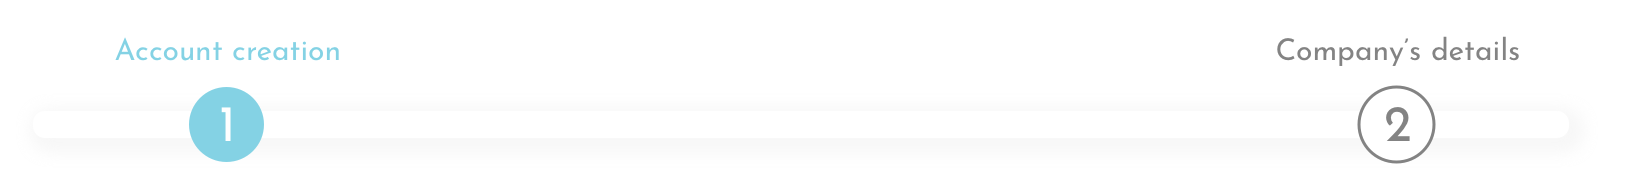
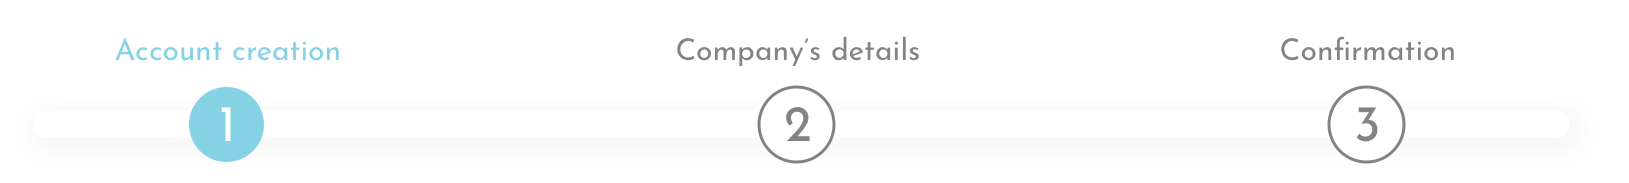
locales show

diff --git a/app/assets/stylesheets/pages/_home.scss b/app/assets/stylesheets/pages/_home.scss
@@ -130,7 +130,7 @@ body {
 }
 
 .logo-partner {
-  width: 100px;
+  width: 130px;
   margin: 10px 30px;
   opacity: 0.7;
   &:hover {
@@ -157,10 +157,8 @@ body {
 }
 
 
-
 @media only screen and (min-width: 1200px) {
   .box {
     max-width: 20vw;
   }
 }
-

diff --git a/app/assets/stylesheets/components/_navbar.scss b/app/assets/stylesheets/components/_navbar.scss
@@ -3,6 +3,15 @@
   position: fixed;
   width: 100%;
   height: 70px;
+  display: flex;
+  justify-content: space-between;
+  a {
+    color: $gray;
+    margin: 0px 10px;
+    &:hover {
+      text-decoration: none;
+    }
+  }
 }
 
 .logo {

diff --git a/db/schema.rb b/db/schema.rb
@@ -10,7 +10,7 @@
 #
 # It's strongly recommended that you check this file into your version control system.
 
-ActiveRecord::Schema.define(version: 2020_02_10_133554) do
+ActiveRecord::Schema.define(version: 2020_02_10_161841) do
 
   # These are extensions that must be enabled in order to support this database
   enable_extension "plpgsql"
@@ -23,6 +23,7 @@ ActiveRecord::Schema.define(version: 2020_02_10_133554) do
     t.string "accounting_software"
     t.string "bank"
     t.string "payment"
+    t.boolean "privacy", default: false
   end
 
   create_table "users", force: :cascade do |t|

diff --git a/app/controllers/application_controller.rb b/app/controllers/application_controller.rb
@@ -1,7 +1,12 @@
 class ApplicationController < ActionController::Base
   around_action :switch_locale
   before_action :configure_permitted_parameters, if: :devise_controller?
+  before_action :set_locale
 
+  def set_locale
+    I18n.locale = params[:locale] || session[:locale] || I18n.default_locale
+    session[:locale] = I18n.locale
+  end
 
   def after_sign_up_path_for(user)
     new_company_path

diff --git a/config/routes.rb b/config/routes.rb
@@ -1,10 +1,11 @@
 Rails.application.routes.draw do
 
   devise_for :users
-  scope '(:locale)', locale: /#{I18n.available_locales.join("|")}/ do
+  scope "(:locale)", locale: /fr|en/ do
     root to: 'pages#home'
     get 'adminsecret', to: 'pages#admin'
     get 'privacy', to: 'pages#privacy'
+    get 'confirmation', to: 'pages#confirmation'
     resources :companies
   end
 end

diff --git a/app/controllers/companies_controller.rb b/app/controllers/companies_controller.rb
@@ -7,7 +7,7 @@ class CompaniesController < ApplicationController
   def create
     @company = Company.new(company_params)
     @company.save
-    redirect_to root_path
+    redirect_to confirmation_path
   end
 
 

diff --git a/db/migrate/20200210161841_add_boolean_to_company.rb b/db/migrate/20200210161841_add_boolean_to_company.rb
@@ -1,0 +1,5 @@
+class AddBooleanToCompany < ActiveRecord::Migration[5.2]
+  def change
+    add_column :companies, :privacy, :boolean, default: false
+  end
+end

diff --git a/app/controllers/pages_controller.rb b/app/controllers/pages_controller.rb
@@ -10,4 +10,7 @@ class PagesController < ApplicationController
   def privacy
   end
 
+  def confirmation
+  end
+
 end
